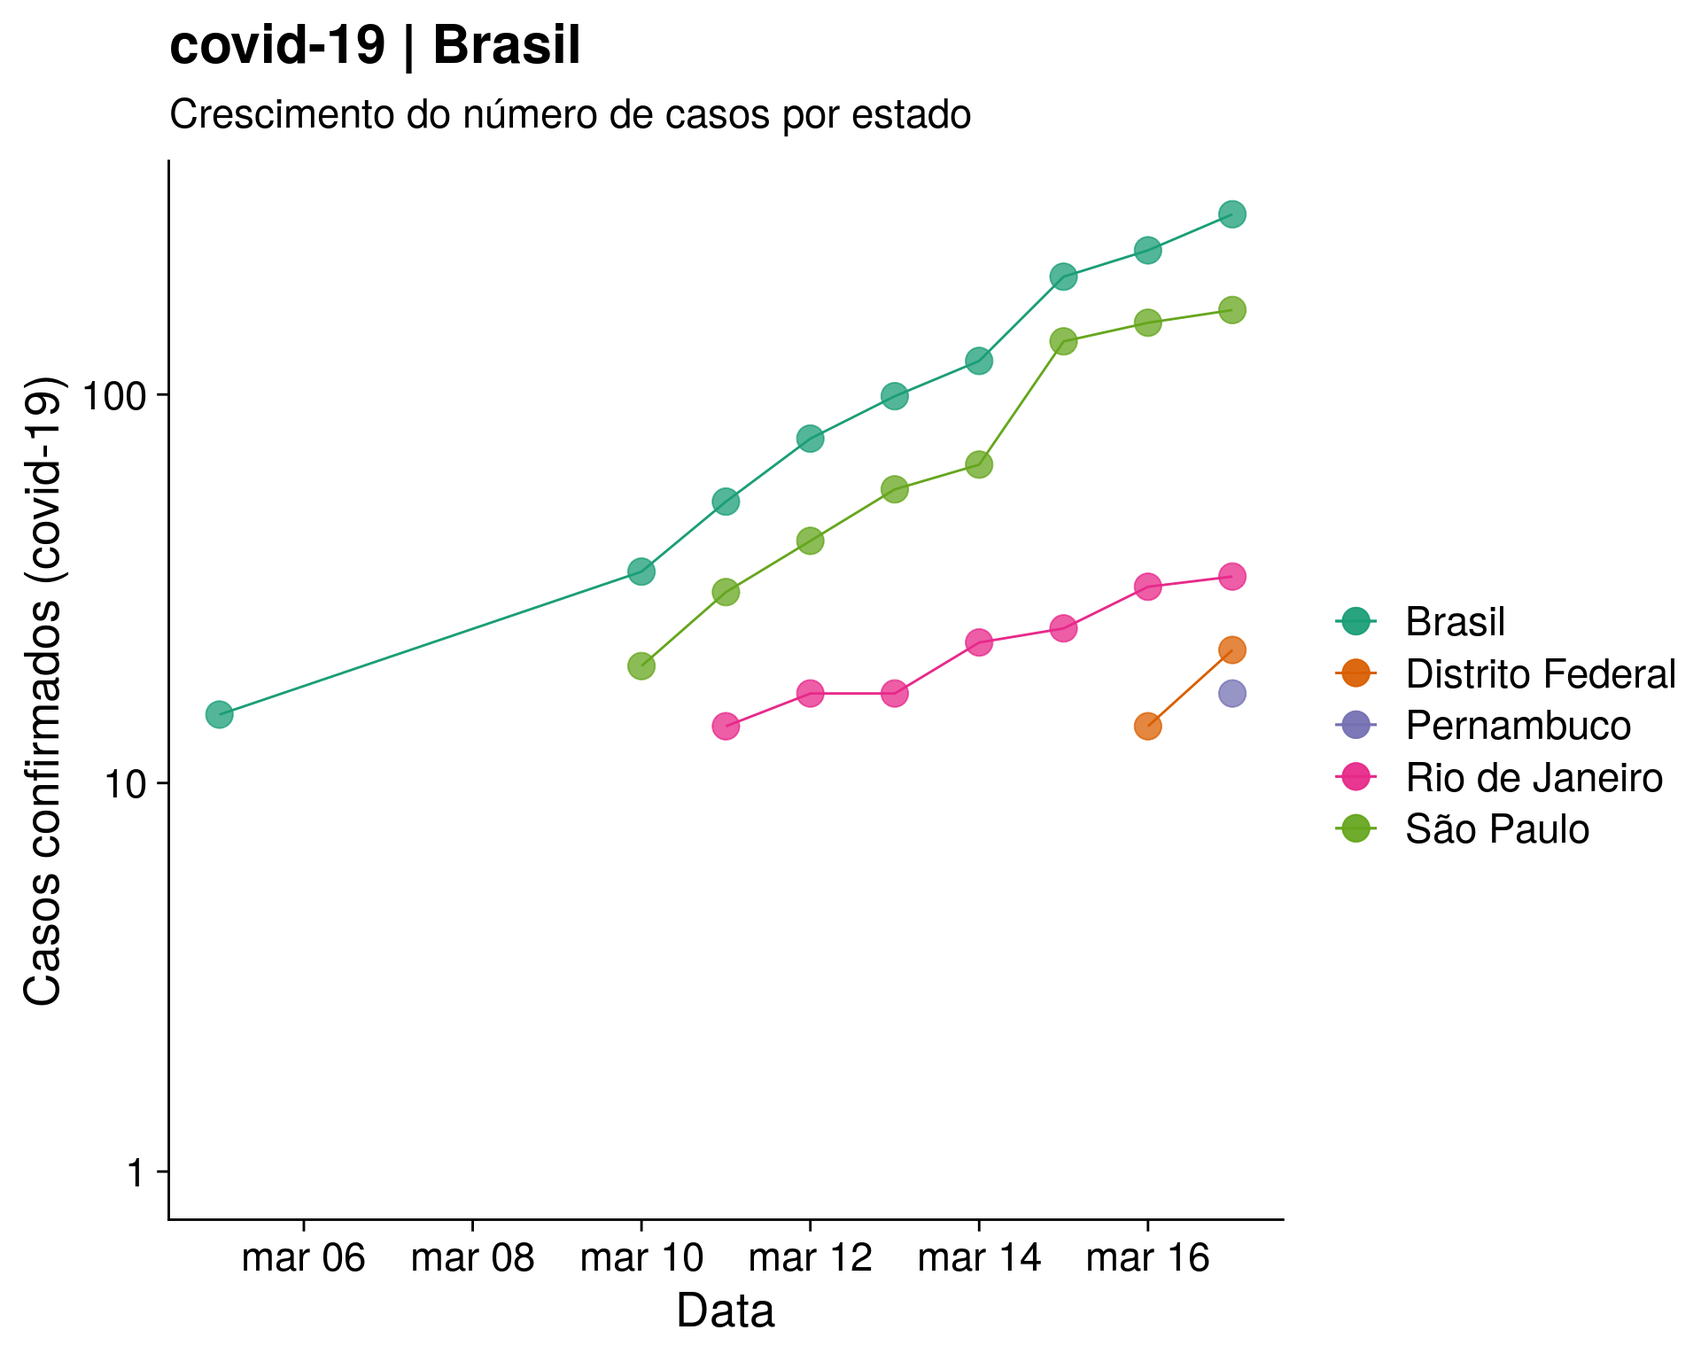
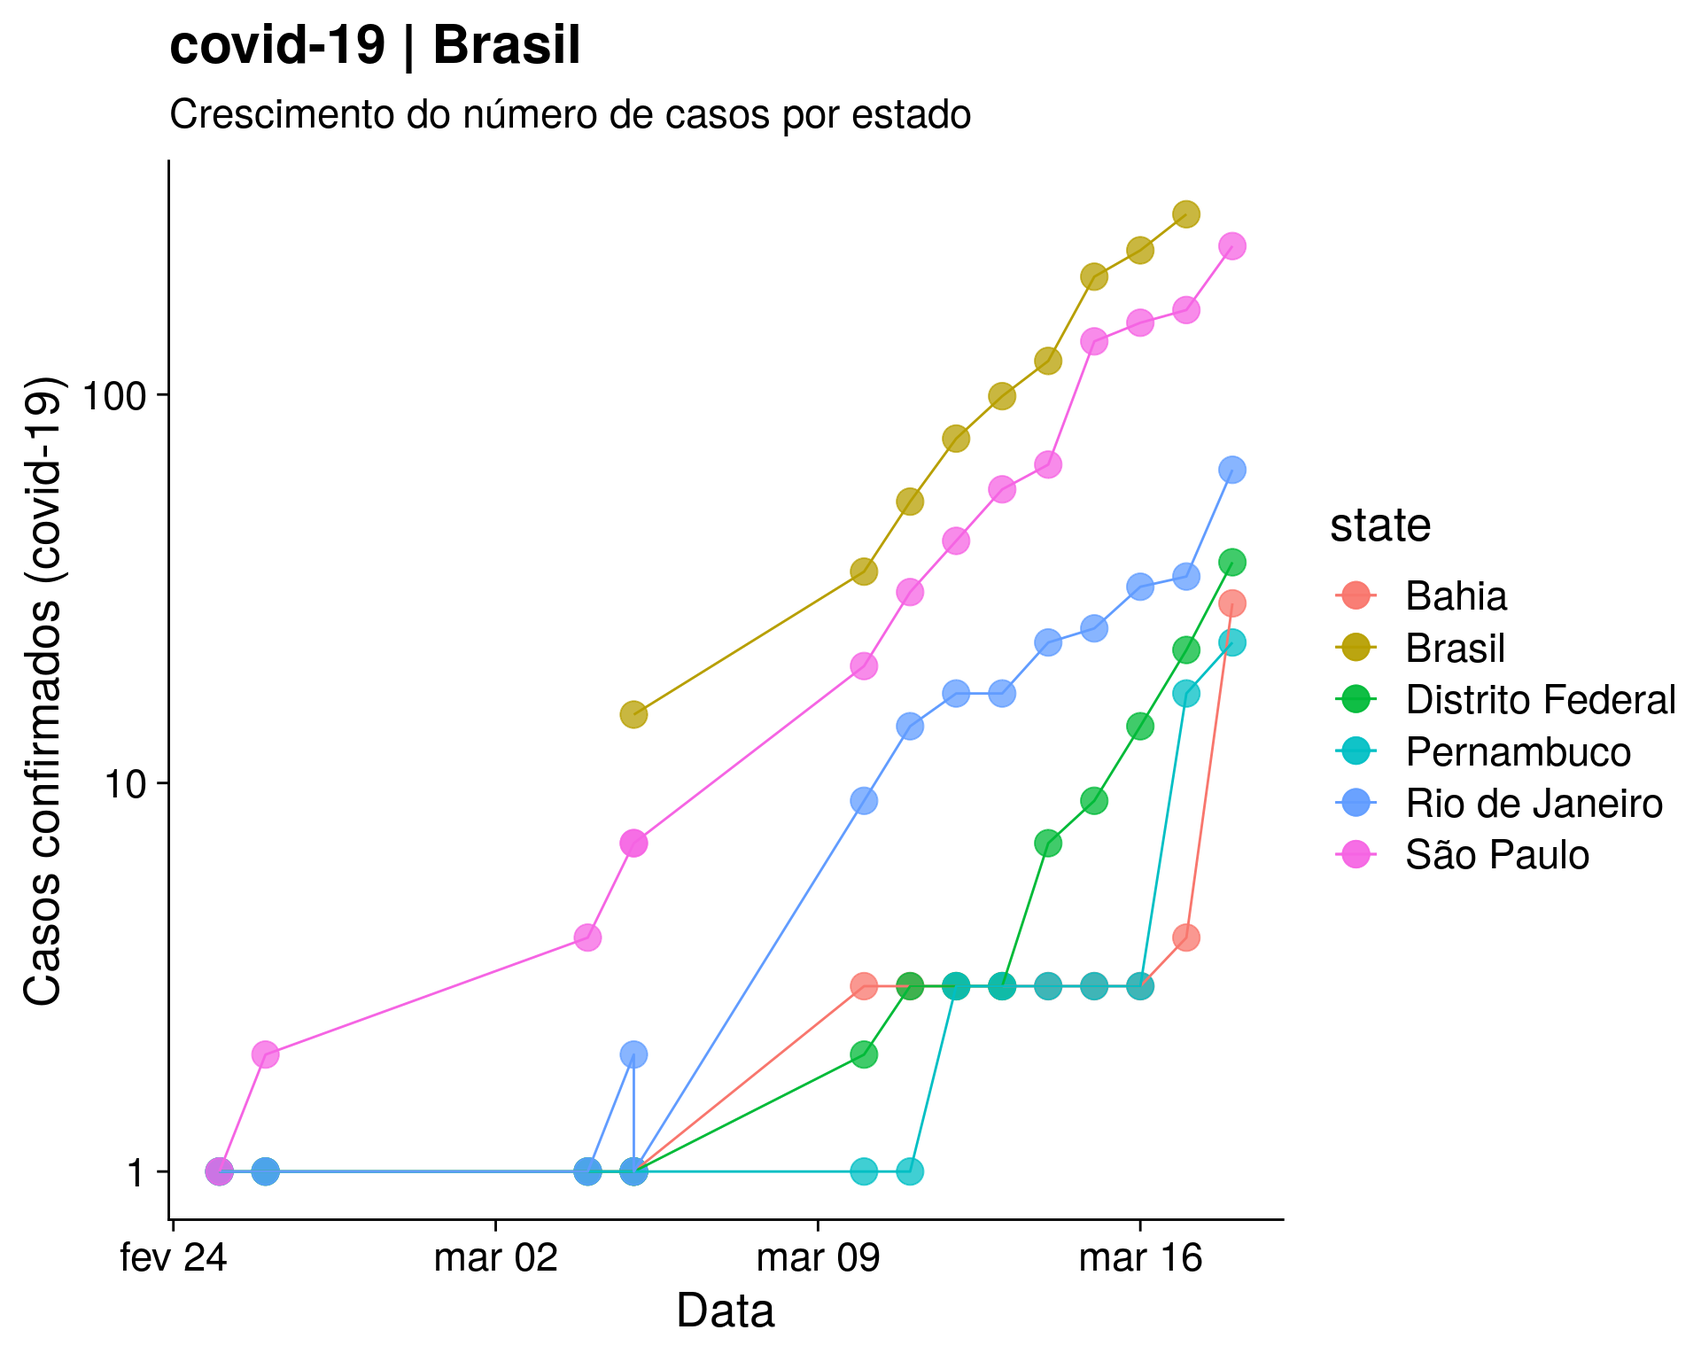
updated cases from 2020-03-18

diff --git a/docs/articles/current_trends.html b/docs/articles/current_trends.html
@@ -102,18 +102,18 @@
 
     
     
-<p><strong>The data used in the following analysis were updated on :2020-03-17</strong></p>
+<p><strong>The data used in the following analysis were updated on :2020-03-18</strong></p>
 <div id="summary" class="section level1">
 <h1 class="hasAnchor">
 <a href="#summary" class="anchor"></a>Summary</h1>
 <ul>
 <li>Number of suspected cases: <strong>8819</strong><br>
 </li>
-<li>Number of confirmed cases: <strong>290</strong><br>
+<li>Number of confirmed cases: <strong>512</strong><br>
 </li>
 <li>Number of descarted cases: <strong>1890</strong><br>
 </li>
-<li>Number of deaths by covid-19: <strong>1</strong>
+<li>Number of deaths by covid-19: <strong>4</strong>
 </li>
 </ul>
 </div>
@@ -135,8 +135,8 @@
 <div id="raw-data" class="section level1">
 <h1 class="hasAnchor">
 <a href="#raw-data" class="anchor"></a>Raw data</h1>
-<div id="htmlwidget-04464f143edae898c5d1" style="width:100%;height:auto;" class="datatables html-widget"></div>
-<script type="application/json" data-for="htmlwidget-04464f143edae898c5d1">{"x":{"filter":"none","data":[["1","2","3","4","5","6","7","8","9","10","11","12","13","14","15","16","17","18","19","20","21","22","23","24","25","26","27"],["Acre","Alagoas","Amapá","Amazonas","Bahia","Ceará","Distrito Federal","Espírito Santo","Goiás","Maranhão","Mato Grosso","Mato Grosso do Sul","Minas Gerais","Pará","Paraíba","Paraná","Pernambuco","Piauí","Rio de Janeiro","Rio Grande do Norte","Rio Grande do Sul","Rondônia","Roraima","Santa Catarina","São Paulo","Sergipe","Tocantins"],["AC","AL","AP","AM","BA","CE","DF","ES","GO","MA","MT","MS","MG","PA","PB","PR","PE","PI","RJ","RN","RS","RO","RR","SC","SP","SE","TO"],[8,34,6,7,375,211,253,69,221,52,23,44,563,21,48,240,71,14,859,72,300,38,5,220,5047,7,11],[0,1,0,1,3,5,21,1,6,0,0,4,7,0,0,6,16,0,33,1,10,0,0,7,164,4,0],[0,20,0,19,59,95,96,21,54,8,7,45,99,22,15,82,33,4,194,21,217,3,0,55,709,12,0],["2020-03-17","2020-03-17","2020-03-17","2020-03-17","2020-03-17","2020-03-17","2020-03-17","2020-03-17","2020-03-17","2020-03-17","2020-03-17","2020-03-17","2020-03-17","2020-03-17","2020-03-17","2020-03-17","2020-03-17","2020-03-17","2020-03-17","2020-03-17","2020-03-17","2020-03-17","2020-03-17","2020-03-17","2020-03-17","2020-03-17","2020-03-17"],[0,0,0,0,0,0,0,0,0,0,0,0,0,0,0,0,0,0,0,0,0,0,0,0,1,0,0]],"container":"<table class=\"display\">\n  <thead>\n    <tr>\n      <th> <\/th>\n      <th>state<\/th>\n      <th>state_ID<\/th>\n      <th>suspected_cases<\/th>\n      <th>confirmed_cases<\/th>\n      <th>not_confirmed_cases<\/th>\n      <th>date<\/th>\n      <th>deaths<\/th>\n    <\/tr>\n  <\/thead>\n<\/table>","options":{"columnDefs":[{"className":"dt-right","targets":[3,4,5,7]},{"orderable":false,"targets":0}],"order":[],"autoWidth":false,"orderClasses":false}},"evals":[],"jsHooks":[]}</script>
+<div id="htmlwidget-c67bb0b2a142b08a6110" style="width:100%;height:auto;" class="datatables html-widget"></div>
+<script type="application/json" data-for="htmlwidget-c67bb0b2a142b08a6110">{"x":{"filter":"none","data":[["1","2","3","4","5","6","7","8","9","10","11","12","13","14","15","16","17","18","19","20","21","22","23","24","25","26","27"],["Acre","Alagoas","Amapá","Amazonas","Bahia","Ceará","Distrito Federal","Espírito Santo","Goiás","Maranhão","Mato Grosso","Mato Grosso do Sul","Minas Gerais","Pará","Paraíba","Paraná","Pernambuco","Piauí","Rio de Janeiro","Rio Grande do Norte","Rio Grande do Sul","Rondônia","Roraima","Santa Catarina","São Paulo","Sergipe","Tocantins"],[null,null,null,null,null,null,null,null,null,null,null,null,null,null,null,null,null,null,null,null,null,null,null,null,null,null,null],[3,1,0,2,28,11,36,11,12,0,0,7,19,1,1,14,22,0,63,1,19,0,0,14,240,6,1],[null,null,null,null,null,null,null,null,null,null,null,null,null,null,null,null,null,null,null,null,null,null,null,null,null,null,null]],"container":"<table class=\"display\">\n  <thead>\n    <tr>\n      <th> <\/th>\n      <th>Estado<\/th>\n      <th>Casos suspeitos<\/th>\n      <th>Casos confirmados<\/th>\n      <th>Casos descartados<\/th>\n    <\/tr>\n  <\/thead>\n<\/table>","options":{"columnDefs":[{"className":"dt-right","targets":[2,3,4]},{"orderable":false,"targets":0}],"order":[],"autoWidth":false,"orderClasses":false}},"evals":[],"jsHooks":[]}</script>
 </div>
   </div>
 

diff --git a/docs/articles/tendencia_atual.html b/docs/articles/tendencia_atual.html
@@ -105,7 +105,7 @@
 <blockquote>
 <p><strong>NOTAS:</strong><br>
 * As análises abaixo representam apenas o número de casos <strong>confirmados pelo Ministério da Saúde</strong>, portanto, não se pode concluir uma relação direta destes números com o número real de pessoas infectadas por covid-19.<br>
-* Os resultados apresentados abaixo foram atualizados na data: <strong>2020-03-17</strong></p>
+* Os resultados apresentados abaixo foram atualizados na data: <strong>2020-03-18</strong></p>
 </blockquote>
 <div id="síntese-dos-dados-oficiais" class="section level1">
 <h1 class="hasAnchor">
@@ -113,11 +113,11 @@
 <ul>
 <li>Número de casos suspeitos: <strong>8819</strong><br>
 </li>
-<li>Número de casos confirmados: <strong>290</strong><br>
+<li>Número de casos confirmados: <strong>512</strong><br>
 </li>
 <li>Número de casos descartados: <strong>1890</strong><br>
 </li>
-<li>Número de mortes por corona vírus: <strong>1</strong>
+<li>Número de mortes por corona vírus: <strong>4</strong>
 </li>
 </ul>
 </div>
@@ -139,8 +139,8 @@
 <div id="raw-data" class="section level1">
 <h1 class="hasAnchor">
 <a href="#raw-data" class="anchor"></a>Raw data</h1>
-<div id="htmlwidget-46dcc4ba5e191c3faa9b" style="width:100%;height:auto;" class="datatables html-widget"></div>
-<script type="application/json" data-for="htmlwidget-46dcc4ba5e191c3faa9b">{"x":{"filter":"none","data":[["Acre","Alagoas","Amapá","Amazonas","Bahia","Ceará","Distrito Federal","Espírito Santo","Goiás","Maranhão","Mato Grosso","Mato Grosso do Sul","Minas Gerais","Pará","Paraíba","Paraná","Pernambuco","Piauí","Rio de Janeiro","Rio Grande do Norte","Rio Grande do Sul","Rondônia","Roraima","Santa Catarina","São Paulo","Sergipe","Tocantins"],[8,34,6,7,375,211,253,69,221,52,23,44,563,21,48,240,71,14,859,72,300,38,5,220,5047,7,11],[0,1,0,1,3,5,21,1,6,0,0,4,7,0,0,6,16,0,33,1,10,0,0,7,164,4,0],[0,20,0,19,59,95,96,21,54,8,7,45,99,22,15,82,33,4,194,21,217,3,0,55,709,12,0]],"container":"<table class=\"display\">\n  <thead>\n    <tr>\n      <th>Estado<\/th>\n      <th>Casos suspeitos<\/th>\n      <th>Casos confirmados<\/th>\n      <th>Casos descartados<\/th>\n    <\/tr>\n  <\/thead>\n<\/table>","options":{"pageLength":30,"columnDefs":[{"className":"dt-right","targets":[1,2,3]}],"order":[],"autoWidth":false,"orderClasses":false,"lengthMenu":[10,25,30,50,100]}},"evals":[],"jsHooks":[]}</script>
+<div id="htmlwidget-83673a6afa1b8d17e26d" style="width:100%;height:auto;" class="datatables html-widget"></div>
+<script type="application/json" data-for="htmlwidget-83673a6afa1b8d17e26d">{"x":{"filter":"none","data":[["Acre","Alagoas","Amapá","Amazonas","Bahia","Ceará","Distrito Federal","Espírito Santo","Goiás","Maranhão","Mato Grosso","Mato Grosso do Sul","Minas Gerais","Pará","Paraíba","Paraná","Pernambuco","Piauí","Rio de Janeiro","Rio Grande do Norte","Rio Grande do Sul","Rondônia","Roraima","Santa Catarina","São Paulo","Sergipe","Tocantins"],[null,null,null,null,null,null,null,null,null,null,null,null,null,null,null,null,null,null,null,null,null,null,null,null,null,null,null],[3,1,0,2,28,11,36,11,12,0,0,7,19,1,1,14,22,0,63,1,19,0,0,14,240,6,1],[null,null,null,null,null,null,null,null,null,null,null,null,null,null,null,null,null,null,null,null,null,null,null,null,null,null,null]],"container":"<table class=\"display\">\n  <thead>\n    <tr>\n      <th>Estado<\/th>\n      <th>Casos suspeitos<\/th>\n      <th>Casos confirmados<\/th>\n      <th>Casos descartados<\/th>\n    <\/tr>\n  <\/thead>\n<\/table>","options":{"pageLength":30,"columnDefs":[{"className":"dt-right","targets":[1,2,3]}],"order":[],"autoWidth":false,"orderClasses":false,"lengthMenu":[10,25,30,50,100]}},"evals":[],"jsHooks":[]}</script>
 </div>
   </div>
 

diff --git a/docs/index.html b/docs/index.html
@@ -11,7 +11,8 @@
 <link rel="stylesheet" href="https://cdnjs.cloudflare.com/ajax/libs/font-awesome/5.7.1/css/v4-shims.min.css" integrity="sha256-6qHlizsOWFskGlwVOKuns+D1nB6ssZrHQrNj1wGplHc=" crossorigin="anonymous">
 <!-- clipboard.js --><script src="https://cdnjs.cloudflare.com/ajax/libs/clipboard.js/2.0.4/clipboard.min.js" integrity="sha256-FiZwavyI2V6+EXO1U+xzLG3IKldpiTFf3153ea9zikQ=" crossorigin="anonymous"></script><!-- headroom.js --><script src="https://cdnjs.cloudflare.com/ajax/libs/headroom/0.9.4/headroom.min.js" integrity="sha256-DJFC1kqIhelURkuza0AvYal5RxMtpzLjFhsnVIeuk+U=" crossorigin="anonymous"></script><script src="https://cdnjs.cloudflare.com/ajax/libs/headroom/0.9.4/jQuery.headroom.min.js" integrity="sha256-ZX/yNShbjqsohH1k95liqY9Gd8uOiE1S4vZc+9KQ1K4=" crossorigin="anonymous"></script><!-- pkgdown --><link href="pkgdown.css" rel="stylesheet">
 <script src="pkgdown.js"></script><meta property="og:title" content="Corona Virus (covid-19) Data for Brasil">
-<meta property="og:description" content="This is a data package with updated information on the number of cases of corona virus (covid-19) for Brasil.">
+<meta property="og:description" content="This is a data package with updated information on
+    the number of cases of corona virus (covid-19) for Brasil.">
 <meta name="twitter:card" content="summary">
 <!-- mathjax --><script src="https://cdnjs.cloudflare.com/ajax/libs/mathjax/2.7.5/MathJax.js" integrity="sha256-nvJJv9wWKEm88qvoQl9ekL2J+k/RWIsaSScxxlsrv8k=" crossorigin="anonymous"></script><script src="https://cdnjs.cloudflare.com/ajax/libs/mathjax/2.7.5/config/TeX-AMS-MML_HTMLorMML.js" integrity="sha256-84DKXVJXs0/F8OTMzX4UR909+jtl4G7SPypPavF+GfA=" crossorigin="anonymous"></script><!--[if lt IE 9]>
 <script src="https://oss.maxcdn.com/html5shiv/3.7.3/html5shiv.min.js"></script>
@@ -95,17 +96,17 @@
 </h1></div>
 <p>O objetivo do <code>covid19br</code> é fornecer dados atualizados e históricos sobre o número de casos de vírus corona no Brasil.</p>
 <p>O pacote será atualizado a cada dois dias, incluindo novos dados do Ministério da Saúde (<a href="https://saude.gov.br/" class="uri">https://saude.gov.br/</a>).</p>
-<div id="sintese-dos-resultados-2020-03-17" class="section level3">
+<div id="sintese-dos-resultados-2020-03-18" class="section level3">
 <h3 class="hasAnchor">
-<a href="#sintese-dos-resultados-2020-03-17" class="anchor"></a>Síntese dos resultados (2020-03-17)</h3>
+<a href="#sintese-dos-resultados-2020-03-18" class="anchor"></a>Síntese dos resultados (2020-03-18)</h3>
 <ul>
 <li>Número de casos suspeitos: <strong>8819</strong><br>
 </li>
-<li>Número de casos confirmados: <strong>290</strong><br>
+<li>Número de casos confirmados: <strong>489</strong><br>
 </li>
 <li>Número de casos descartados: <strong>1890</strong><br>
 </li>
-<li>Número de mortes por corona vírus: <strong>1</strong>
+<li>Número de mortes por corona vírus: <strong>4</strong>
 </li>
 </ul>
 <p>Veja os links abaixo para uma síntese atualizada dos casos de Corona Vírus (covid-19) no Brasil:</p>
@@ -153,7 +154,7 @@
 <blockquote>
 <p><strong>NOTAS:</strong><br>
 * As análises abaixo representam apenas o número de casos <strong>confirmados pelo Ministério da Saúde</strong>, portanto, não se pode concluir uma relação direta destes números com o número real de pessoas infectadas por covid-19.<br>
-* Os resultados apresentados abaixo foram atualizados na data: <strong>2020-03-17</strong></p>
+* Os resultados apresentados abaixo foram atualizados na data: <strong>2020-03-18</strong></p>
 </blockquote>
 </div>
 </div>

diff --git a/docs/articles/distrib_map_pt.html b/docs/articles/distrib_map_pt.html
@@ -105,7 +105,7 @@
 <blockquote>
 <p><strong>NOTAS:</strong><br>
 * As análises abaixo representam apenas o número de casos <strong>confirmados pelo Ministério da Saúde</strong>, portanto, não se pode concluir uma relação direta destes números com o número real de pessoas infectadas por covid-19.<br>
-* Os resultados apresentados abaixo foram atualizados na data: <strong>2020-03-17</strong></p>
+* Os resultados apresentados abaixo foram atualizados na data: <strong>2020-03-18</strong></p>
 </blockquote>
 <div id="síntese-dos-dados-oficiais" class="section level1">
 <h1 class="hasAnchor">
@@ -113,11 +113,11 @@
 <ul>
 <li>Número de casos suspeitos: <strong>8819</strong><br>
 </li>
-<li>Número de casos confirmados: <strong>290</strong><br>
+<li>Número de casos confirmados: <strong>512</strong><br>
 </li>
 <li>Número de casos descartados: <strong>1890</strong><br>
 </li>
-<li>Número de mortes por corona vírus: <strong>1</strong>
+<li>Número de mortes por corona vírus: <strong>4</strong>
 </li>
 </ul>
 </div>
@@ -134,8 +134,8 @@
 <div id="dados-brutos-por-estado" class="section level1">
 <h1 class="hasAnchor">
 <a href="#dados-brutos-por-estado" class="anchor"></a>Dados brutos por estado</h1>
-<div id="htmlwidget-04730382cd639ed34262" style="width:100%;height:auto;" class="datatables html-widget"></div>
-<script type="application/json" data-for="htmlwidget-04730382cd639ed34262">{"x":{"filter":"none","data":[["São Paulo","Rio de Janeiro","Distrito Federal","Pernambuco","Rio Grande do Sul","Minas Gerais","Santa Catarina","Paraná","Goiás","Ceará","Sergipe","Mato Grosso do Sul","Bahia","Amazonas","Rio Grande do Norte","Alagoas","Espírito Santo","Rondônia","Acre","Roraima","Pará","Amapá","Tocantins","Maranhão","Piauí","Paraíba","Mato Grosso"],[164,33,21,16,10,7,7,6,6,5,4,4,3,1,1,1,1,0,0,0,0,0,0,0,0,0,0],[0.357,0.191,0.696,0.167,0.088,0.033,0.098,0.052,0.085,0.055,0.174,0.144,0.02,0.024,0.029,0.03,0.025,0,0,0,0,0,0,0,0,0,0]],"container":"<table class=\"display\">\n  <thead>\n    <tr>\n      <th>Estado<\/th>\n      <th>Casos confirmados<\/th>\n      <th>Casos por 100 mil habitantes<\/th>\n    <\/tr>\n  <\/thead>\n<\/table>","options":{"pageLength":30,"columnDefs":[{"className":"dt-right","targets":[1,2]}],"order":[],"autoWidth":false,"orderClasses":false,"lengthMenu":[10,25,30,50,100]}},"evals":[],"jsHooks":[]}</script>
+<div id="htmlwidget-2994e1f9e13732302a79" style="width:100%;height:auto;" class="datatables html-widget"></div>
+<script type="application/json" data-for="htmlwidget-2994e1f9e13732302a79">{"x":{"filter":"none","data":[["São Paulo","Rio de Janeiro","Distrito Federal","Bahia","Pernambuco","Minas Gerais","Rio Grande do Sul","Paraná","Santa Catarina","Goiás","Ceará","Espírito Santo","Mato Grosso do Sul","Sergipe","Acre","Amazonas","Pará","Tocantins","Rio Grande do Norte","Paraíba","Alagoas","Rondônia","Roraima","Amapá","Maranhão","Piauí","Mato Grosso"],[240,63,36,28,22,19,19,14,14,12,11,11,7,6,3,2,1,1,1,1,1,0,0,0,0,0,0],[0.523,0.365,1.194,0.188,0.23,0.09,0.167,0.122,0.195,0.171,0.12,0.274,0.252,0.261,0.34,0.048,0.012,0.064,0.029,0.025,0.03,0,0,0,0,0,0]],"container":"<table class=\"display\">\n  <thead>\n    <tr>\n      <th>Estado<\/th>\n      <th>Casos confirmados<\/th>\n      <th>Casos por 100 mil habitantes<\/th>\n    <\/tr>\n  <\/thead>\n<\/table>","options":{"pageLength":30,"columnDefs":[{"className":"dt-right","targets":[1,2]}],"order":[],"autoWidth":false,"orderClasses":false,"lengthMenu":[10,25,30,50,100]}},"evals":[],"jsHooks":[]}</script>
 </div>
   </div>
 

diff --git a/docs/articles/predicoes.html b/docs/articles/predicoes.html
@@ -105,7 +105,7 @@
 <blockquote>
 <p><strong>NOTAS:</strong><br>
 * As análises abaixo representam apenas o número de casos <strong>confirmados pelo Ministério da Saúde</strong>, portanto, não se pode concluir uma relação direta destes números com o número real de pessoas infectadas por covid-19.<br>
-* Os resultados apresentados abaixo foram atualizados na data: <strong>2020-03-17</strong></p>
+* Os resultados apresentados abaixo foram atualizados na data: <strong>2020-03-18</strong></p>
 </blockquote>
 <div id="síntese-dos-dados-oficiais" class="section level1">
 <h1 class="hasAnchor">
@@ -113,11 +113,11 @@
 <ul>
 <li>Número de casos suspeitos: <strong>8819</strong><br>
 </li>
-<li>Número de casos confirmados: <strong>290</strong><br>
+<li>Número de casos confirmados: <strong>512</strong><br>
 </li>
 <li>Número de casos descartados: <strong>1890</strong><br>
 </li>
-<li>Número de mortes por corona vírus: <strong>1</strong>
+<li>Número de mortes por corona vírus: <strong>4</strong>
 </li>
 </ul>
 </div>
@@ -129,8 +129,8 @@
 <div id="valores-brutos" class="section level1">
 <h1 class="hasAnchor">
 <a href="#valores-brutos" class="anchor"></a>Valores brutos</h1>
-<div id="htmlwidget-6236aacb4065a69bad66" style="width:100%;height:auto;" class="datatables html-widget"></div>
-<script type="application/json" data-for="htmlwidget-6236aacb4065a69bad66">{"x":{"filter":"none","data":[["2020-03-10","2020-03-11","2020-03-12","2020-03-13","2020-03-14","2020-03-15","2020-03-16","2020-03-17","2020-03-18","2020-03-19","2020-03-20","2020-03-21","2020-03-22","2020-03-23","2020-03-24","2020-03-25","2020-03-26"],[43,56,73,96,125,163,213,278,363,474,619,809,1056,1379,1801,2352,3071],[34,44,57,73,94,120,153,194,247,314,399,506,641,813,1030,1304,1652],[54,71,94,125,166,222,297,398,534,716,962,1293,1739,2340,3149,4240,5710]],"container":"<table class=\"display\">\n  <thead>\n    <tr>\n      <th>Data<\/th>\n      <th>Esperado<\/th>\n      <th>Mínimo<\/th>\n      <th>Máximo<\/th>\n    <\/tr>\n  <\/thead>\n<\/table>","options":{"pageLength":30,"columnDefs":[{"className":"dt-right","targets":[1,2,3]}],"order":[],"autoWidth":false,"orderClasses":false,"lengthMenu":[10,25,30,50,100]}},"evals":[],"jsHooks":[]}</script>
+<div id="htmlwidget-b2c67e9c6db8bf5fcb64" style="width:100%;height:auto;" class="datatables html-widget"></div>
+<script type="application/json" data-for="htmlwidget-b2c67e9c6db8bf5fcb64">{"x":{"filter":"none","data":[["2020-03-10","2020-03-11","2020-03-12","2020-03-13","2020-03-14","2020-03-15","2020-03-16","2020-03-17","2020-03-18","2020-03-19","2020-03-20","2020-03-21","2020-03-22","2020-03-23","2020-03-24","2020-03-25","2020-03-26"],[42,55,72,94,122,159,208,270,353,459,599,781,1017,1326,1728,2253,2936],[33,42,53,68,87,110,139,176,222,280,353,445,560,705,887,1116,1403],[55,73,97,129,172,231,310,417,560,755,1017,1371,1849,2495,3368,4548,6144]],"container":"<table class=\"display\">\n  <thead>\n    <tr>\n      <th>Data<\/th>\n      <th>Esperado<\/th>\n      <th>Mínimo<\/th>\n      <th>Máximo<\/th>\n    <\/tr>\n  <\/thead>\n<\/table>","options":{"pageLength":30,"columnDefs":[{"className":"dt-right","targets":[1,2,3]}],"order":[],"autoWidth":false,"orderClasses":false,"lengthMenu":[10,25,30,50,100]}},"evals":[],"jsHooks":[]}</script>
 </div>
   </div>
 

diff --git a/index.md b/index.md
@@ -15,12 +15,12 @@ sobre o número de casos de vírus corona no Brasil.
 O pacote será atualizado a cada dois dias, incluindo novos dados do
 Ministério da Saúde (<https://saude.gov.br/>).
 
-### Síntese dos resultados (2020-03-17)
+### Síntese dos resultados (2020-03-18)
 
   - Número de casos suspeitos: **8819**  
-  - Número de casos confirmados: **290**  
+  - Número de casos confirmados: **489**  
   - Número de casos descartados: **1890**  
-  - Número de mortes por corona vírus: **1**
+  - Número de mortes por corona vírus: **4**
 
 Veja os links abaixo para uma síntese atualizada dos casos de Corona
 Vírus (covid-19) no
@@ -68,4 +68,4 @@ mensagem.
 > concluir uma relação direta destes números com o número real de
 > pessoas infectadas por covid-19.  
 > \* Os resultados apresentados abaixo foram atualizados na data:
-> **2020-03-17**
+> **2020-03-18**

diff --git a/data-raw/metadata_ms_raw_cs.md b/data-raw/metadata_ms_raw_cs.md
@@ -1,0 +1,11 @@
+# Source of data:
+
+## Before 2020-03-18
+
+All data before 2020-03-18 came from Ministério da Saúde daily report - http://plataforma.saude.gov.br/novocoronavirus/
+
+## 2020-03-18
+
+Data from State Secretaries | source: https://g1.globo.com/bemestar/coronavirus/noticia/2020/03/18/casos-de-coronavirus-no-brasil-em-18-de-marco.ghtml
+
+
